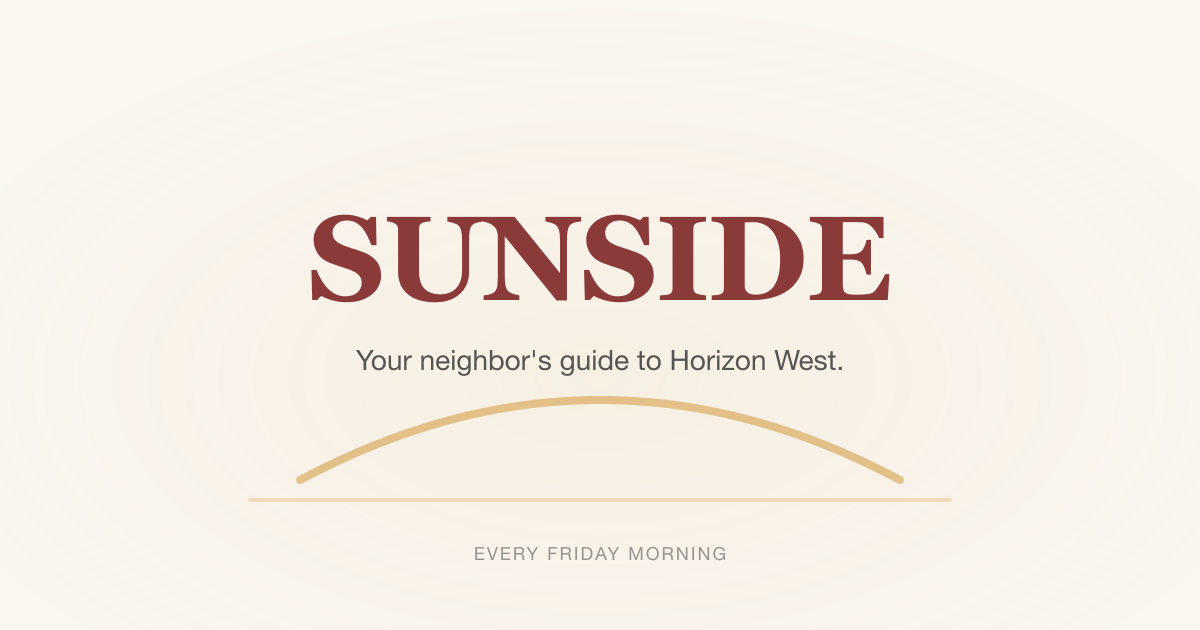
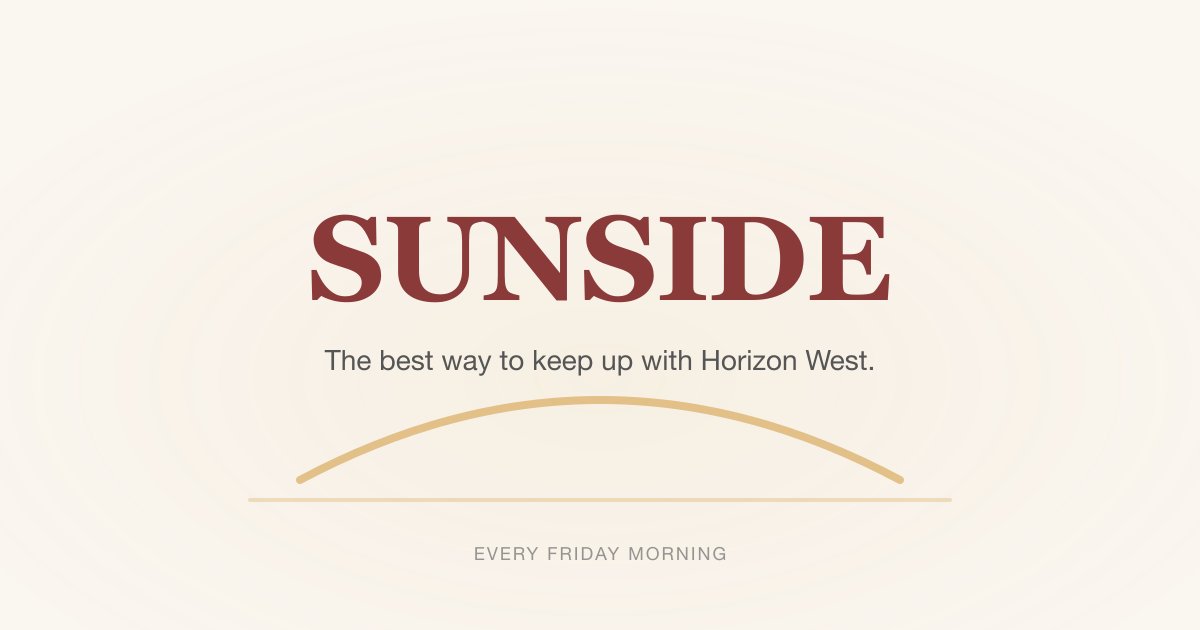
Update tagline + remove CTA spam note
- New tagline: "The best way to keep up with Horizon West"
- Removed "No spam. Unsubscribe anytime." from CTA

Changed region(s): [[0.2775, 0.5429, 0.74, 0.6032]]

diff --git a/index.html b/index.html
@@ -3,9 +3,9 @@
 <head>
   <meta charset="UTF-8">
   <meta name="viewport" content="width=device-width, initial-scale=1.0">
-  <title>SUNSIDE — Your neighbor's guide to Horizon West</title>
+  <title>SUNSIDE — The best way to keep up with Horizon West</title>
   <meta name="description" content="The things worth doing, knowing + talking about in Horizon West. Curated events, new openings, local recs + more. Every Friday morning.">
-  <meta property="og:title" content="SUNSIDE — Your neighbor's guide to Horizon West">
+  <meta property="og:title" content="SUNSIDE — The best way to keep up with Horizon West">
   <meta property="og:description" content="The things worth doing, knowing + talking about in Horizon West. Every Friday morning. Free.">
   <meta property="og:type" content="website">
   <meta property="og:url" content="https://readsunside.com">
@@ -552,7 +552,7 @@
   <section class="hero">
     <div class="hero-content">
       <div class="hero-wordmark">SUNSIDE</div>
-      <p class="hero-tagline">Your neighbor's guide to Horizon West.</p>
+      <p class="hero-tagline">The best way to keep up with Horizon West.</p>
       <p class="hero-frequency">Every Friday Morning</p>
       <div class="email-form-wrapper">
         <form class="email-form" id="hero-form">
@@ -617,13 +617,12 @@
           <button type="submit">Subscribe</button>
         </form>
       </div>
-      <p class="cta-note reveal">No spam. Unsubscribe anytime.</p>
     </div>
   </section>
 
   <footer class="footer">
     <p class="footer-wordmark">SUNSIDE</p>
-    <p class="footer-tagline">Your neighbor's guide to Horizon West.</p>
+    <p class="footer-tagline">The best way to keep up with Horizon West.</p>
     <p class="footer-location">Horizon West, Florida</p>
   </footer>
 
